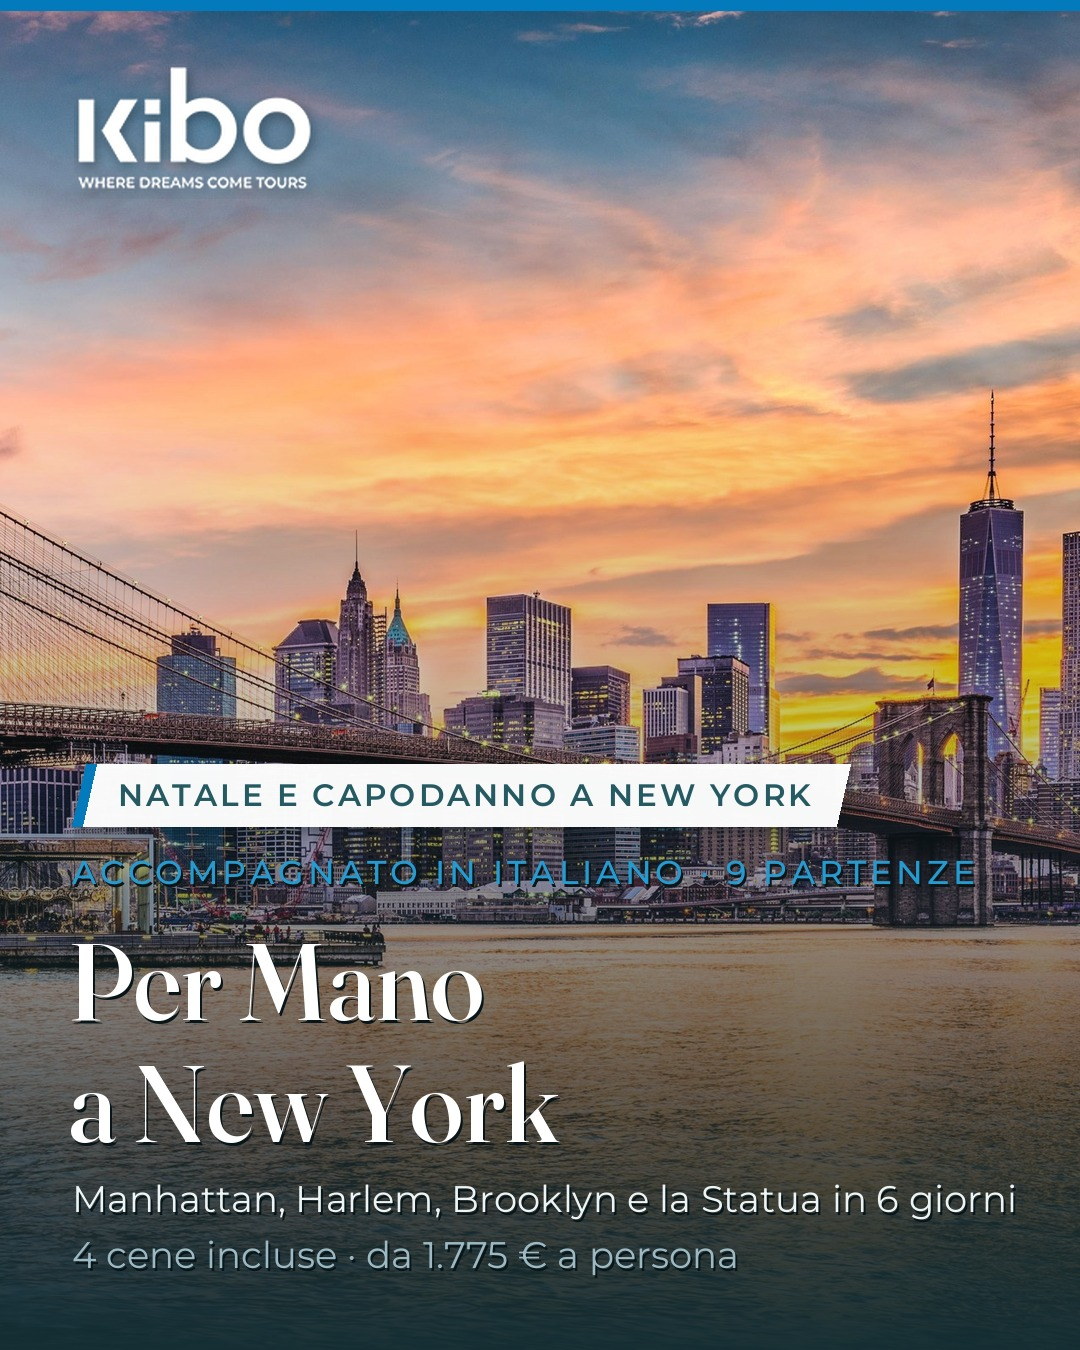
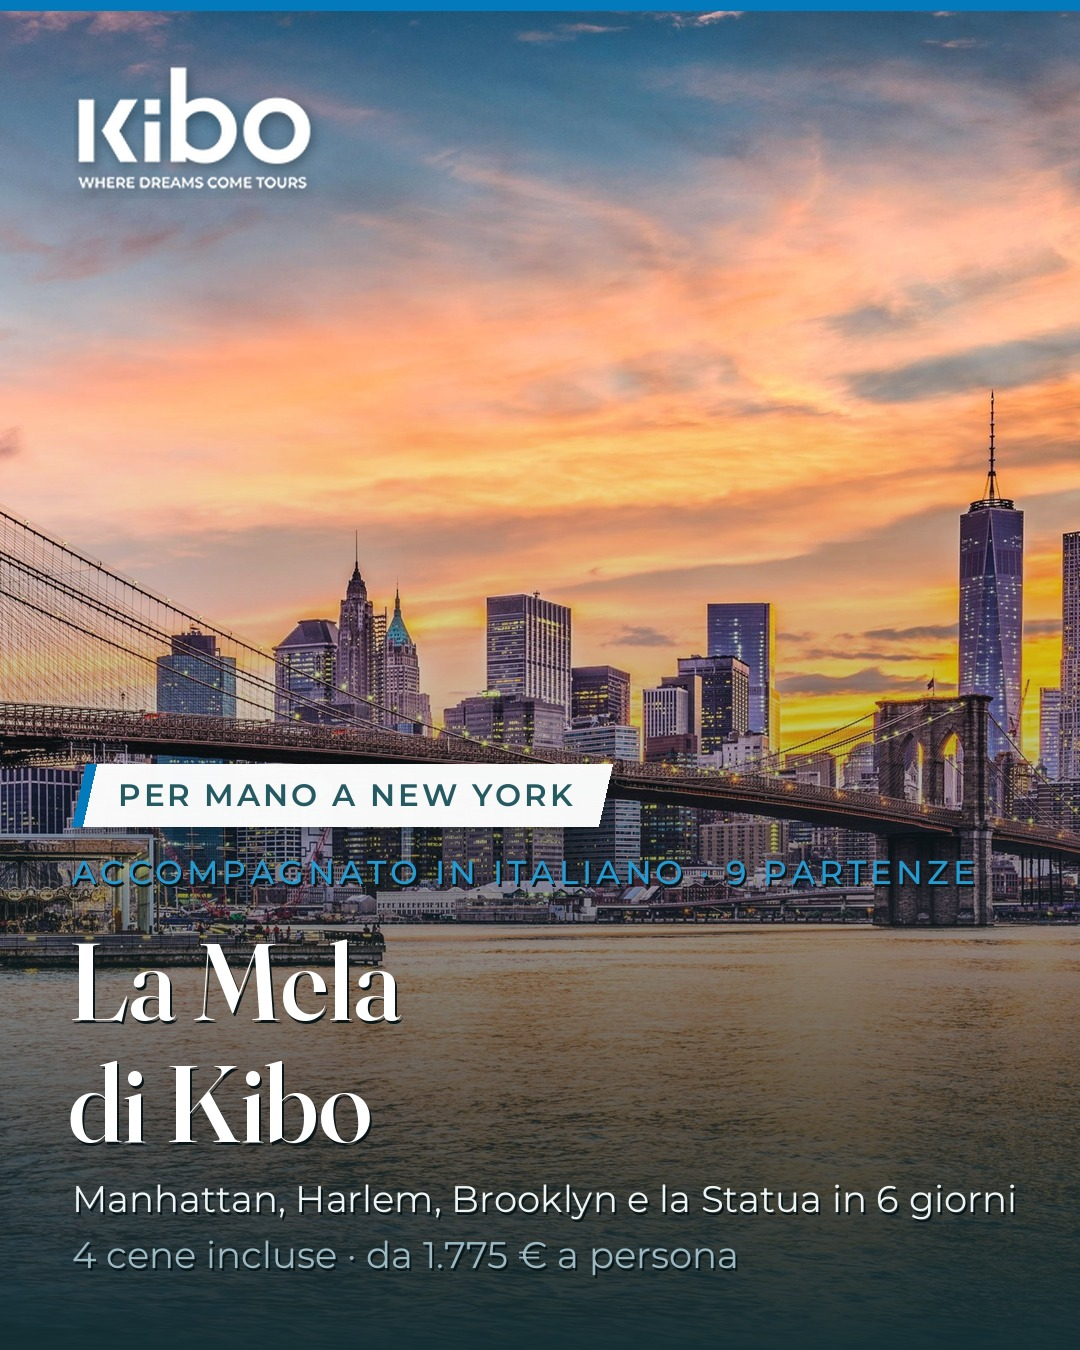
New York: nome commerciale «La Mela di Kibo» (richiesta di Roberto), nastro grafica «PER MANO A NEW YORK»; landing, kit, grafiche e newsletter del 13/10 aggiornati

Changed region(s): [[0.0611, 0.6844, 0.5194, 0.8711], [0.1222, 0.56, 0.7944, 0.6222]]

diff --git a/newsletter/2026-10-13/index.html b/newsletter/2026-10-13/index.html
@@ -1,10 +1,10 @@
 <!doctype html>
-<html lang="it"><head><meta charset="utf-8"><meta name="viewport" content="width=device-width, initial-scale=1"><title>Kibo · Thailandia con guida in italiano ogni mercoledì e New York accompagnati per Natale e Capodanno</title></head>
+<html lang="it"><head><meta charset="utf-8"><meta name="viewport" content="width=device-width, initial-scale=1"><title>Kibo · Thailandia con guida in italiano ogni mercoledì e La Mela di Kibo, New York accompagnati per Natale e Capodanno</title></head>
 <body style="margin:0;padding:0;background:#f3f5f6;">
 <table role="presentation" width="100%" cellpadding="0" cellspacing="0" border="0" style="background:#f3f5f6;"><tr><td align="center" style="padding:24px 12px;">
 <table role="presentation" width="600" cellpadding="0" cellspacing="0" border="0" style="width:600px;max-width:100%;background:#ffffff;">
 <tr><td style="padding:28px 36px 6px 36px;font-family:Montserrat,Arial,sans-serif;font-size:14px;line-height:1.6;color:#22333b;text-align:center;">
-Due proposte per i tuoi clienti: le gemme del Siam, sette giorni dal fiume Kwai a Chiang Mai con guida in italiano e partenze garantite ogni mercoledì; e New York presa per mano, sei giorni con guida in italiano, quattro cene comprese e nove partenze da novembre a gennaio, Natale e Capodanno compresi. Quote a terra a persona; voli dall&#x27;Italia quotati con il viaggio.
+Due proposte per i tuoi clienti: le gemme del Siam, sette giorni dal fiume Kwai a Chiang Mai con guida in italiano e partenze garantite ogni mercoledì; e La Mela di Kibo, New York presa per mano: sei giorni con guida in italiano, quattro cene comprese e nove partenze da novembre a gennaio, Natale e Capodanno compresi. Quote a terra a persona; voli dall&#x27;Italia quotati con il viaggio.
 </td></tr>
 
 <tr><td align="center" style="padding:28px 0 8px 0;">
@@ -21,15 +21,15 @@ Due proposte per i tuoi clienti: le gemme del Siam, sette giorni dal fiume Kwai 
 </td></tr>
 
 <tr><td align="center" style="padding:28px 0 8px 0;">
-  <a href="https://go.kibotours.com/viaggi/new-york-per-mano-2026-27/" target="_blank"><img src="https://go.kibotours.com/newsletter/2026-10-13/newyork.jpg" width="600" alt="Per Mano a New York: 6 giorni accompagnati in italiano con 4 cene, 9 partenze da novembre a gennaio, da 1.775 euro a persona" style="display:block;width:600px;max-width:100%;height:auto;border:0;"></a>
+  <a href="https://go.kibotours.com/viaggi/new-york-per-mano-2026-27/" target="_blank"><img src="https://go.kibotours.com/newsletter/2026-10-13/newyork.jpg" width="600" alt="La Mela di Kibo: 6 giorni a New York accompagnati in italiano con 4 cene, 9 partenze da novembre a gennaio, da 1.775 euro a persona" style="display:block;width:600px;max-width:100%;height:auto;border:0;"></a>
 </td></tr>
 <tr><td style="padding:10px 36px 0 36px;font-family:Montserrat,Arial,sans-serif;font-size:14px;line-height:1.6;color:#22333b;text-align:center;">
-<strong>Per Mano a New York</strong> · Sei giorni con guida in italiano: Manhattan dal Lincoln Center al World Trade Center, le luci della città dal New Jersey, Bronx, Queens e Brooklyn, la funzione gospel di Harlem, la High Line, la Statua della Libertà ed Ellis Island, il ponte di Brooklyn a piedi e il Summit One Vanderbilt. Hotel a Times Square con colazione, 4 cene con l&#x27;assistente e trasferimenti compresi. Nove partenze da novembre a gennaio, Natale e Capodanno inclusi, con le quote nel listino. Da 1.775 € a persona.
+<strong>La Mela di Kibo</strong> · Sei giorni con guida in italiano: Manhattan dal Lincoln Center al World Trade Center, le luci della città dal New Jersey, Bronx, Queens e Brooklyn, la funzione gospel di Harlem, la High Line, la Statua della Libertà ed Ellis Island, il ponte di Brooklyn a piedi e il Summit One Vanderbilt. Hotel a Times Square con colazione, 4 cene con l&#x27;assistente e trasferimenti compresi. Nove partenze da novembre a gennaio, Natale e Capodanno inclusi, con le quote nel listino. Da 1.775 € a persona.
 </td></tr>
 <tr><td align="center" style="padding:14px 0 22px 0;">
   <table role="presentation" cellpadding="0" cellspacing="0" border="0"><tr>
     <td style="padding:0 8px;"><a href="https://go.kibotours.com/viaggi/new-york-per-mano-2026-27/" target="_blank" style="display:inline-block;background:#0f4c5c;color:#ffffff;font-family:Montserrat,Arial,sans-serif;font-size:14px;font-weight:600;letter-spacing:.5px;text-decoration:none;padding:13px 26px;border-radius:4px;">VEDI IL PROGRAMMA COMPLETO</a></td>
-    <td style="padding:0 8px;"><a href="mailto:booking@kibotours.com?subject=Richiesta%20quota%20-%20New%20York%20Per%20Mano" style="display:inline-block;background:#ffffff;color:#0f4c5c;border:2px solid #0f4c5c;font-family:Montserrat,Arial,sans-serif;font-size:14px;font-weight:600;letter-spacing:.5px;text-decoration:none;padding:11px 24px;border-radius:4px;">RICHIEDI LA QUOTA</a></td>
+    <td style="padding:0 8px;"><a href="mailto:booking@kibotours.com?subject=Richiesta%20quota%20-%20La%20Mela%20di%20Kibo%20%28New%20York%29" style="display:inline-block;background:#ffffff;color:#0f4c5c;border:2px solid #0f4c5c;font-family:Montserrat,Arial,sans-serif;font-size:14px;font-weight:600;letter-spacing:.5px;text-decoration:none;padding:11px 24px;border-radius:4px;">RICHIEDI LA QUOTA</a></td>
   </tr></table>
 </td></tr>
 <tr><td style="padding:22px 36px;background:#0f4c5c;color:#ffffff;font-family:Montserrat,Arial,sans-serif;font-size:13px;line-height:1.7;text-align:center;">

diff --git a/viaggi/new-york-per-mano-2026-27/index.html b/viaggi/new-york-per-mano-2026-27/index.html
@@ -5,10 +5,10 @@
 <meta name="viewport" content="width=device-width, initial-scale=1">
 <!-- Fase 1: le landing servono la conversione da email e social, non l'organico. -->
 <meta name="robots" content="noindex,nofollow">
-<title>Per Mano a New York: Manhattan, Harlem, Brooklyn e la Statua della Libertà in sei giorni · Kibo</title>
-<meta name="description" content="Per Mano a New York con Kibo: 6 giorni / 5 notti al RIU Plaza Times Square con guida in italiano, Manhattan, Bronx, Queens e Brooklyn, gospel a Harlem, Statua della Libertà e ponte di Brooklyn, 4 cene comprese. Nove partenze da novembre 2026 a gennaio 2027, Natale e Capodanno inclusi.">
-<meta property="og:title" content="Per Mano a New York: Manhattan, Harlem, Brooklyn e la Statua della Libertà in sei giorni · Kibo">
-<meta property="og:description" content="Per Mano a New York con Kibo: 6 giorni / 5 notti al RIU Plaza Times Square con guida in italiano, Manhattan, Bronx, Queens e Brooklyn, gospel a Harlem, Statua della Libertà e ponte di Brooklyn, 4 cene comprese. Nove partenze da novembre 2026 a gennaio 2027, Natale e Capodanno inclusi.">
+<title>La Mela di Kibo: Manhattan, Harlem, Brooklyn e la Statua della Libertà in sei giorni · Kibo</title>
+<meta name="description" content="La Mela di Kibo, sei giorni a New York: 6 giorni / 5 notti al RIU Plaza Times Square con guida in italiano, Manhattan, Bronx, Queens e Brooklyn, gospel a Harlem, Statua della Libertà e ponte di Brooklyn, 4 cene comprese. Nove partenze da novembre 2026 a gennaio 2027, Natale e Capodanno inclusi.">
+<meta property="og:title" content="La Mela di Kibo: Manhattan, Harlem, Brooklyn e la Statua della Libertà in sei giorni · Kibo">
+<meta property="og:description" content="La Mela di Kibo, sei giorni a New York: 6 giorni / 5 notti al RIU Plaza Times Square con guida in italiano, Manhattan, Bronx, Queens e Brooklyn, gospel a Harlem, Statua della Libertà e ponte di Brooklyn, 4 cene comprese. Nove partenze da novembre 2026 a gennaio 2027, Natale e Capodanno inclusi.">
 <meta property="og:type" content="website">
 <meta property="og:url" content="https://go.kibotours.com/viaggi/new-york-per-mano-2026-27/">
 <meta property="og:image" content="https://go.kibotours.com/assets/hero/new-york-per-mano-2026-27.jpg">
@@ -26,7 +26,7 @@
   <div class="hero-testo">
     
     <span class="eyebrow">New York · viaggio accompagnato in italiano, 9 partenze da novembre a gennaio</span>
-    <h1>Per Mano a New York: Manhattan, Harlem, Brooklyn e la Statua della Libertà in sei giorni</h1>
+    <h1>La Mela di Kibo: Manhattan, Harlem, Brooklyn e la Statua della Libertà in sei giorni</h1>
     
     <p class="strillo">Sei giorni a New York con una guida in italiano che la racconta quartiere per quartiere e un assistente che vi accompagna a cena: il giro di Manhattan, le luci della città viste dal New Jersey, il Bronx, il Queens e Brooklyn, la funzione gospel di Harlem, la Statua della Libertà in traghetto e il ponte di Brooklyn a piedi. Albergo a Times Square, quattro cene comprese, partenze fino a Natale e Capodanno.</p>
     
@@ -40,7 +40,7 @@
     
     <div class="fatto quota"><span class="etichetta">Quota a persona</span><span class="valore">da € 1.775</span></div>
     
-    <a class="cta" href="mailto:booking@kibotours.com?subject=Richiesta%20quota%20-%20New%20York%20Per%20Mano">Richiedi la quota</a>
+    <a class="cta" href="mailto:booking@kibotours.com?subject=Richiesta%20quota%20-%20La%20Mela%20di%20Kibo%20(New%20York)">Richiedi la quota</a>
   </div>
 </div>
 
@@ -109,12 +109,12 @@
   <p class="quota-grande">da <b>€ 1.775</b> a persona</p>
   
   <p class="dettaglio">Scrivici indicando la data che preferisci e in quanti siete: ti rispondiamo con disponibilità e quota confermata, senza impegno.</p>
-  <a class="cta" href="mailto:booking@kibotours.com?subject=Richiesta%20quota%20-%20New%20York%20Per%20Mano">Richiedi la quota</a>
+  <a class="cta" href="mailto:booking@kibotours.com?subject=Richiesta%20quota%20-%20La%20Mela%20di%20Kibo%20(New%20York)">Richiedi la quota</a>
 </div>
 
 <div class="barra-fissa">
   <span><b>da € 1.775</b> a persona</span>
-  <a class="cta" href="mailto:booking@kibotours.com?subject=Richiesta%20quota%20-%20New%20York%20Per%20Mano">Richiedi la quota</a>
+  <a class="cta" href="mailto:booking@kibotours.com?subject=Richiesta%20quota%20-%20La%20Mela%20di%20Kibo%20(New%20York)">Richiedi la quota</a>
 </div>
 
 <script>

diff --git a/scripts/social.py b/scripts/social.py
@@ -132,12 +132,12 @@ VIAGGI = {
     },
     "new-york-per-mano-2026-27": {
         "kicker": "ACCOMPAGNATO IN ITALIANO · 9 PARTENZE",
-        "title": ["Per Mano", "a New York"],
+        "title": ["La Mela", "di Kibo"],
         "info1": "Manhattan, Harlem, Brooklyn e la Statua in 6 giorni",
         "info2": "4 cene incluse · da 1.775 € a persona",
         "focus_x": 0.6,
         "focus_y": 0.5,
-        "ribbon": "NATALE E CAPODANNO A NEW YORK",
+        "ribbon": "PER MANO A NEW YORK",
         "ribbon_style": "evidenza",
         "cta": "",
     },

diff --git a/contenuti/new-york-per-mano-2026-27.social.md b/contenuti/new-york-per-mano-2026-27.social.md
@@ -1,4 +1,4 @@
-# Per Mano a New York — kit social (piano social, contenuto n. 18)
+# La Mela di Kibo (New York) — kit social (piano social, contenuto n. 18)
 
 > Grafiche: `assets/social/new-york-per-mano-2026-27-post.jpg` (1080×1350) e `-story.jpg` (1080×1920),
 > da generare con `scripts/social.py` dopo aver inserito la voce per lo slug; hero: ponte di
@@ -35,7 +35,7 @@ Programma completo al link in bio.
 
 ## Post Facebook (con grafica post)
 
-**Per Mano a New York: Manhattan, Harlem, Brooklyn e la Statua della Libertà in sei giorni — viaggio accompagnato con guida in italiano, nove partenze da novembre a gennaio**
+**La Mela di Kibo: Manhattan, Harlem, Brooklyn e la Statua della Libertà in sei giorni — viaggio accompagnato con guida in italiano, nove partenze da novembre a gennaio**
 
 New York presa per mano: sei giorni con una guida in italiano che la racconta quartiere per
 quartiere. Il giro di Manhattan dal Lincoln Center al World Trade Center, con Central Park e il
@@ -67,3 +67,5 @@ Per la quota con i voli dalla vostra città scriveteci a booking@kibotours.com.
 - Le partenze del 22 e 29 dicembre sono di martedì: nei testi «partenze» senza giorno della
   settimana.
 - Story generata insieme al post; si pubblica solo se Roberto la vuole.
+
+- 07/10: nome commerciale «La Mela di Kibo» deciso da Roberto (il package TC resta «Per Mano a New York»); nastro della grafica «PER MANO A NEW YORK».
